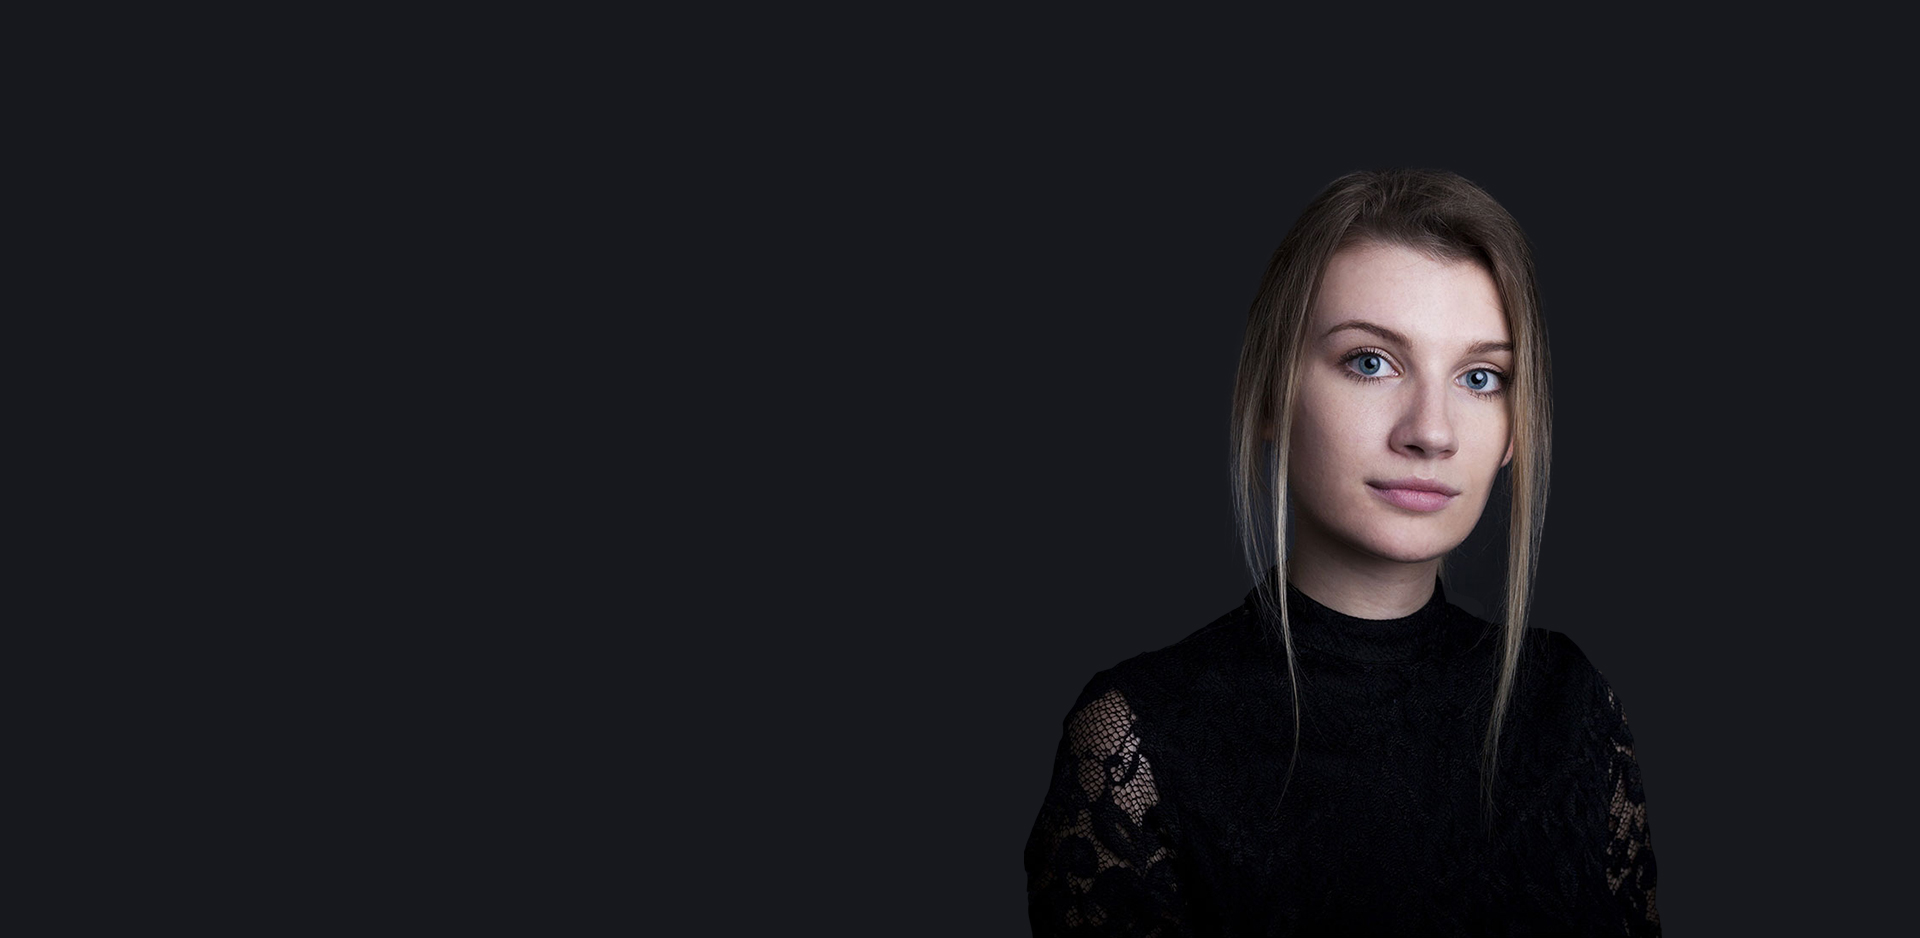
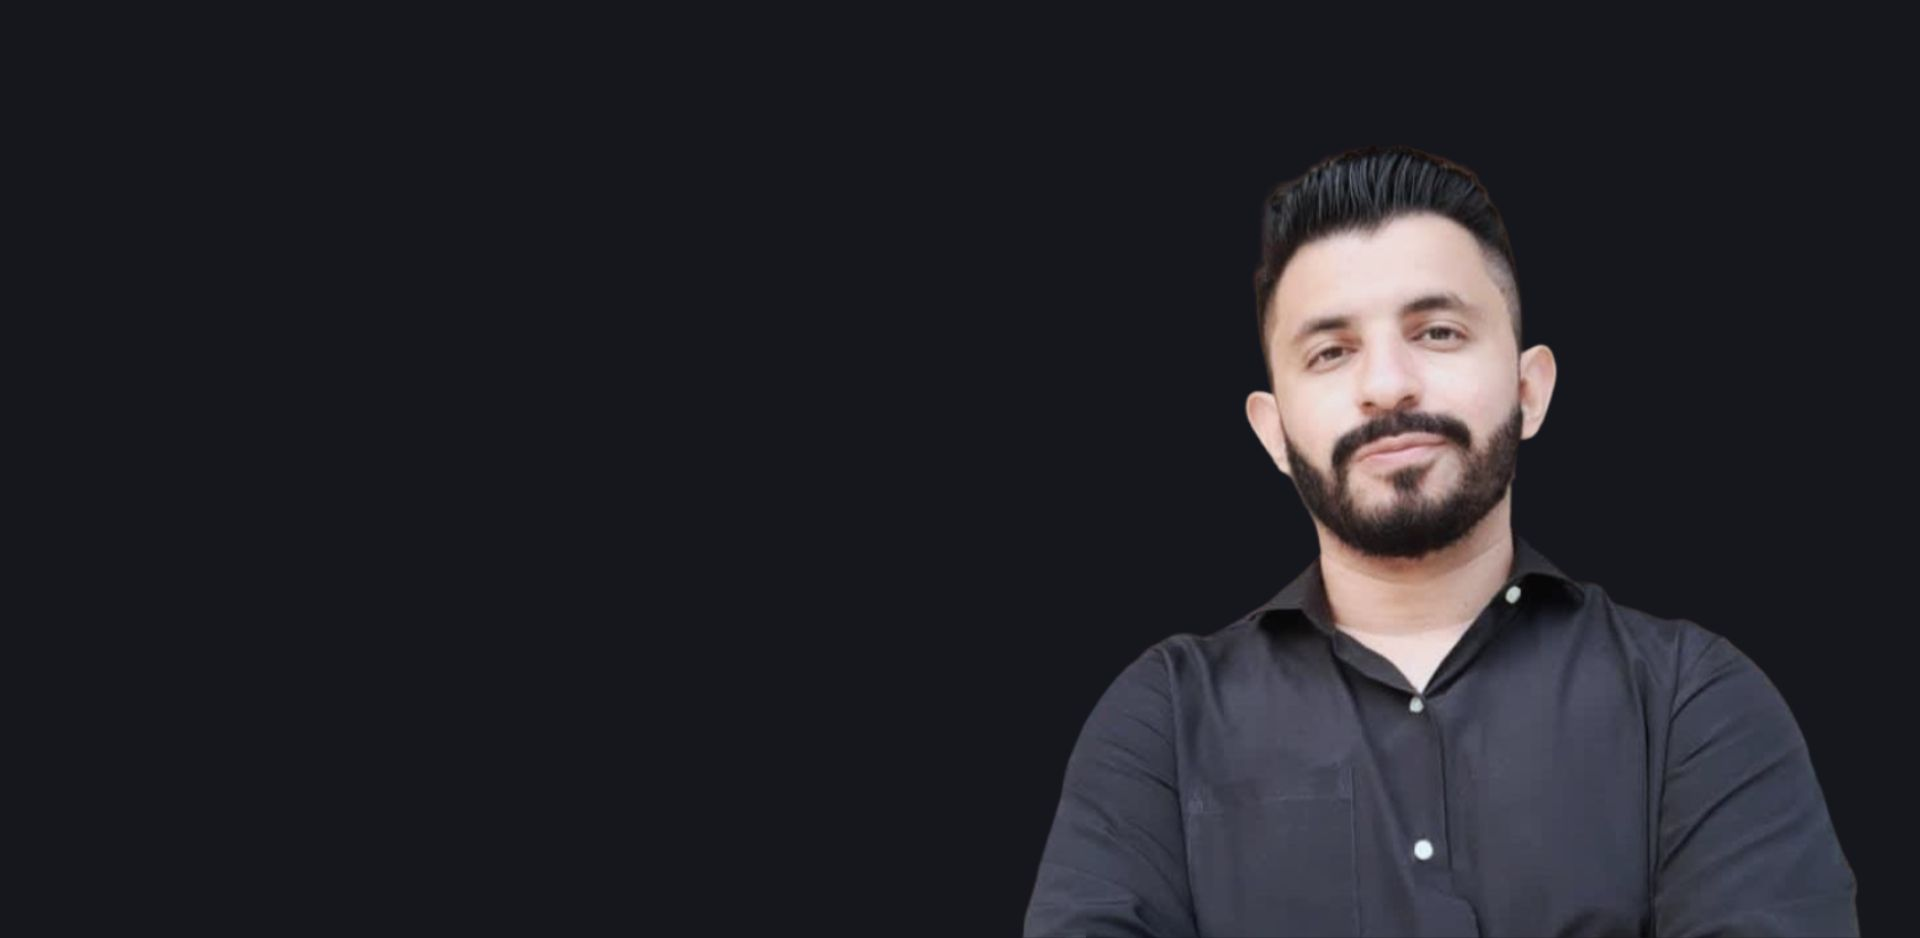
implementa home section e sidebar section

Changed region(s): [[0.5312, 0.1546, 0.9688, 1.0]]

diff --git a/assets/css/style.css b/assets/css/style.css
@@ -75,7 +75,7 @@ body,
 button,
 input {
   font-family: var(--body-font);
-  font-size: var(-normal-);
+  font-size: var(--normal-font-size);
 }
 
 body {
@@ -114,7 +114,15 @@ input {
 }
 
 /*=============== LAYOUT ===============*/
+.container {
+  max-width: 1250px;
+  margin-left: auto;
+  margin-right: auto;
+}
 
+.grid {
+  display: grid;
+}
 
 /*=============== REUSABLE CSS CLASSES ===============*/
 
@@ -169,7 +177,7 @@ input {
   float: right;
   height: 100%;
   line-height: 100px;
-  padding: 0 1rem;
+  padding: 0 0.5rem;
   color: var(--title-color);
   font-weight: var(--font-medium);
   position: relative;
@@ -213,10 +221,142 @@ input {
 }
 
 /*===== Home Section =====*/
+.home {
+  background: url('../img/home-bg.jpg');
+  background-size: cover;
+  height: 100vh;
+  background-position: center center;
+}
 
+.home__container {
+  position: relative;
+  height: 100%;
+  align-items: center;
+}
+
+.home__social {
+  position: absolute;
+  top: 1.8rem;
+  left: 0;
+  display: flex;
+  align-items: center;
+  column-gap: 3.5rem;
+}
+
+.home__social-follow {
+  font-weight: var(--font-medium);
+  position: relative;
+
+}
+.home__social-follow::after {
+  content: '';
+  position: absolute;
+  width: 1rem;
+  height: 2px;
+  background-color: var(--text-color);
+  right: -45%;
+  top: 50%;
+}
+
+.home__social-links {
+  display: inline-flex;
+  column-gap: 1rem;
+}
+
+.home__social-link {
+  font-size: 1.08rem;
+  color: var(--text-color);
+  transition: .4s;
+}
+
+.home__social-link:hover {
+  transform: translateY(.25rem);
+}
+
+.home__img {
+  display: none;
+}
+
+.home__title {
+  font-size: var(--biggest-font-size);
+}
+
+.home__subtitle {
+  font-size: var(--h3-font-size);
+  font-weight: var(--font-medium);
+  margin-bottom: var(--mb-0-75);
+}
+
+.home__description {
+  max-width: 450px;
+  margim-bottom: var(--mb-2);
+}
+
+.my__info {
+  display: flex;
+  column-gap: 1.8rem;
+  position: absolute;
+  left: 0;
+  bottom: 1.8rem;
+}
+
+.info__item {
+  display: flex;
+  align-items: center;
+}
+
+.info__title,
+.info__subtitle {
+  font-size: var(--small-font-size);
+}
+
+.info__title {
+  font-weight: var(--font-medium);
+}
+
+.info__icon {
+  font-size: 1.8rem;
+  color: var(--skin-color);
+  margin-right: var(--mb-0-75);
+}
 
 /*===== Buttons =====*/
+.button {
+  display: inline-flex;
+  align-items: center;
+  column-gap: .5rem;
+  background-color: var(--skin-color);
+  color: var(--title-color);
+  padding: .75rem 1.4rem;
+  border-radius: .25rem;
+  font-weight: var(--font-medium);
+  position: relative;
+  z-index: 1;
+  margin-top: 1rem; /* extra style */
+}
 
+.button::after {
+  position: absolute;
+  content: '';
+  left: 0;
+  top: 0;
+  width: 100%;
+  height: 100%;
+  background-color: #343a40;
+  z-index: -1;
+  transform-origin: center;
+  transform: scale(0);
+  border-radius: .25rem;
+  transition: .3s;
+}
+
+.button:hover::after {
+  transform: scale(1);
+}
+
+.button__icon {
+  font-size: 1.25rem;
+}
 
 /*===== About Section =====*/
 

diff --git a/index.html b/index.html
@@ -17,7 +17,7 @@
   <!--========== MAIN CSS ==========-->
   <link rel="stylesheet" href="assets/css/style.css">
 
-  <title>Responsive portfolio website - Crypticalcoder</title>
+  <title>JJC-DEV</title>
 </head>
 
 <body>
@@ -32,22 +32,22 @@
         <div class="menu">
           <ul class="nav__list">
             <li class="nav__item">
-              <a href="#home" class="nav__link active-link">Início</a>
+              <a href="#home" class="nav__link active-link">Home</a>
             </li>
             <li class="nav__item">
-              <a href="#about" class="nav__link">Sobre mim</a>
+              <a href="#about" class="nav__link">About</a>
             </li>
             <li class="nav__item">
-              <a href="#skills" class="nav__link">Habilidades</a>
+              <a href="#skills" class="nav__link">Skills</a>
             </li>
             <li class="nav__item">
-              <a href="#work" class="nav__link">Projetos</a>
+              <a href="#work" class="nav__link">Projects</a>
             </li>
             <li class="nav__item">
-              <a href="#services" class="nav__link">Serviços</a>
+              <a href="#services" class="nav__link">Services</a>
             </li>
             <li class="nav__item">
-              <a href="#contact" class="nav__link">Contato</a>
+              <a href="#contact" class="nav__link">Contact</a>
             </li>
           </ul>
         </div>
@@ -78,7 +78,7 @@
           </div>
         </div>
 
-        <img src="assets/img/josimar.png" alt="" class="home__img">
+        <img src="assets/img/home-img.png" alt="" class="home__img">
 
         <div class="home__data">
           <h1 class="home__title">Olá, eu sou o Josimar</h1>
@@ -91,11 +91,11 @@
 
         <div class="my__info">
           <div class="info__item">
-            <i class="uil uil-facebook-messenger info__icon"></i>
+            <i class="uil uil-instagram info__icon"></i>
 
             <div>
-              <h3 class="info__title">Messenger</h3>
-              <span class="info__subtitle">facebook.com/jrcvlct</span>
+              <h3 class="info__title">Instagram</h3>
+              <span class="info__subtitle">jrcvlct</span>
             </div>
           </div>
           
@@ -113,7 +113,7 @@
 
             <div>
               <h3 class="info__title">Email</h3>
-              <span class="info__subtitle">juniorcvlct17@</span>
+              <span class="info__subtitle">juniorcvlct17@gmail.com</span>
             </div>
           </div>
 
